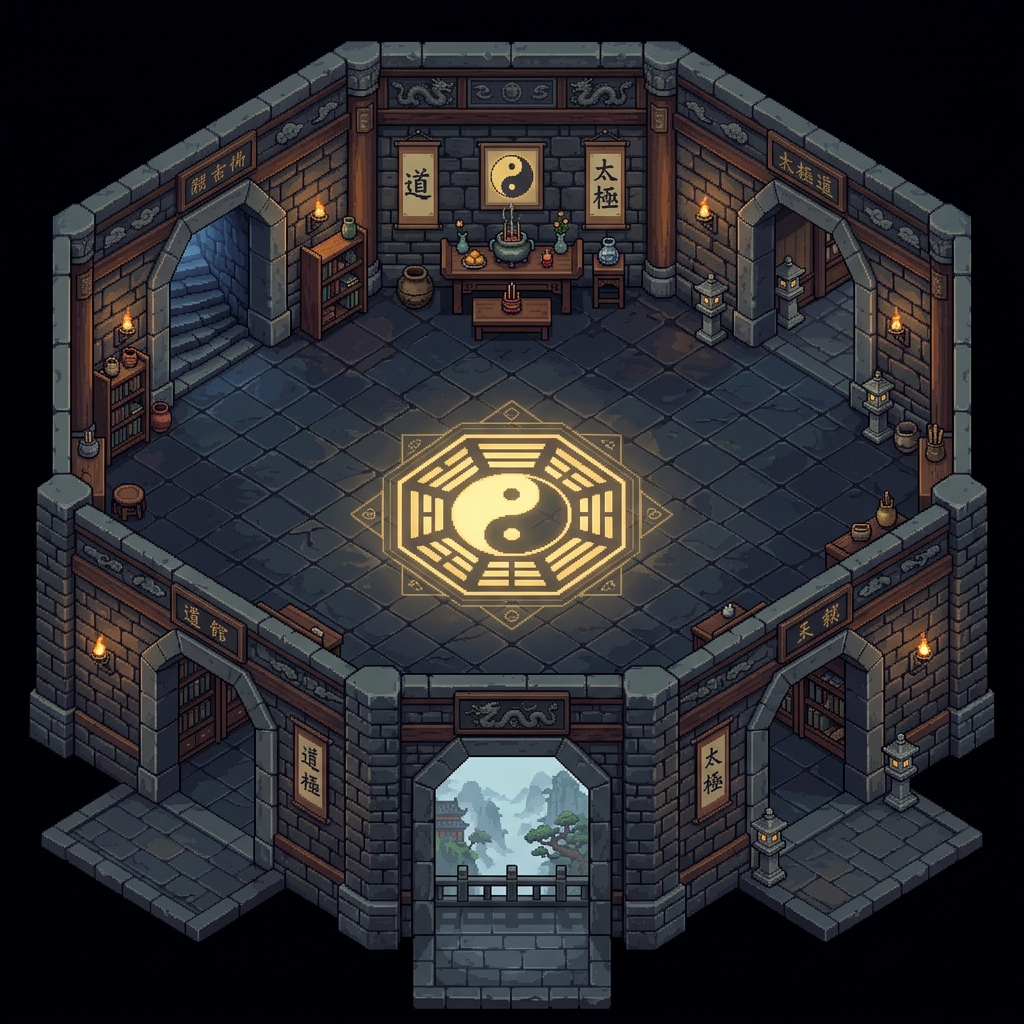
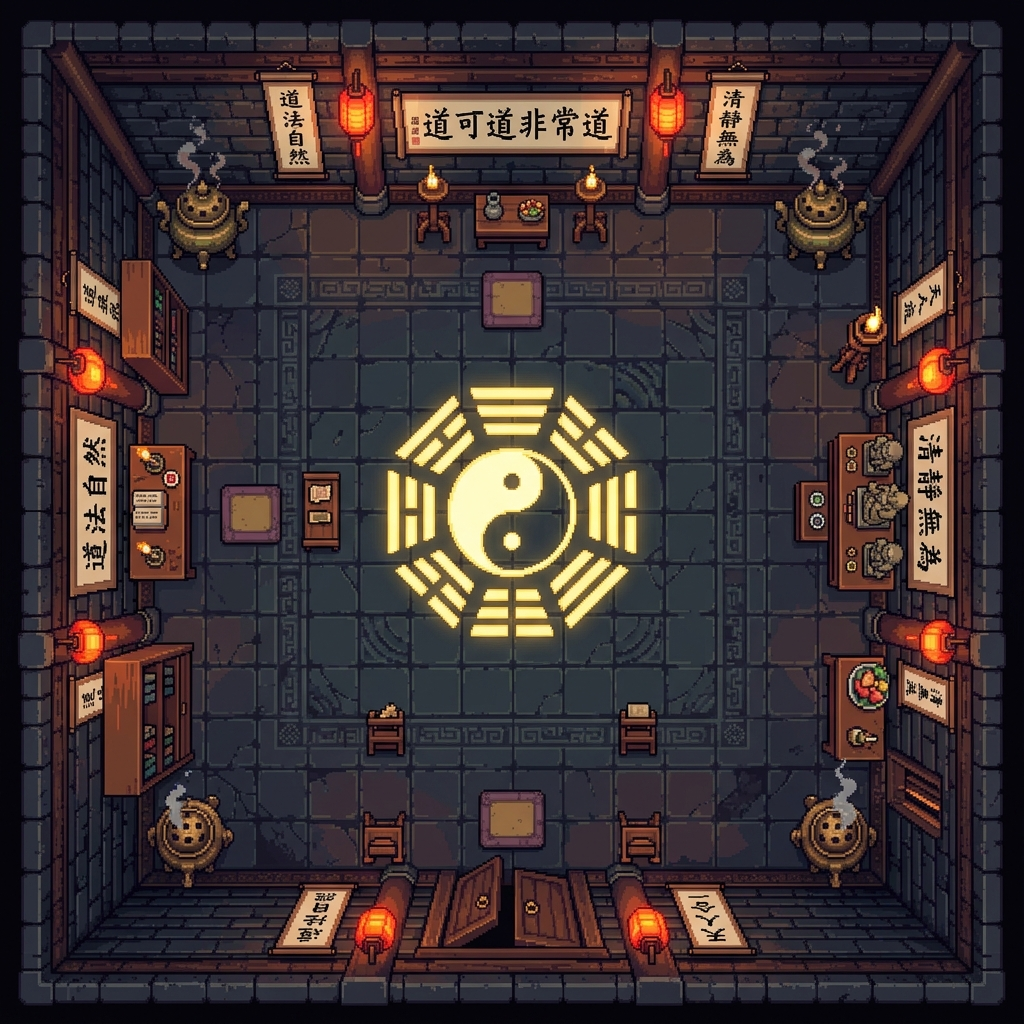
feat: 完整保存九宮格單牆旋轉貼圖機制、全新正俯視背景母圖與專案開發規範

diff --git a/MyPixelGame/web/js/background.js b/MyPixelGame/web/js/background.js
@@ -97,55 +97,106 @@ window.BackgroundRenderer = {
     const terr = (area && area.terrain) ? area.terrain : 'sect';
     const isBossRoom = area && area.isBossRoom;
 
-    const closedKey = terr + '_closed';
-    const hasClosedImg = this.images[closedKey] && this.loaded[closedKey];
-
     ctx.save();
 
-    // ── 1. 北通道 (North: 560~720, Y: 0~112) ──
+    // ── 1. 北通道 (North) ──
     if (doors.includes('N')) {
       this.drawOpenPortalEffect(ctx, 640, 55, 55, isBossRoom ? 'rgba(239,68,68,0.35)' : 'rgba(212,168,67,0.35)');
     } else {
-      // 無通道：直接從【四邊無門原圖 bg_<theme>_closed.png】精準採樣相同座標的實體壁磚進行覆蓋
-      if (hasClosedImg) {
-        ctx.drawImage(this.images[closedKey], 550, 0, 180, 115, 550, 0, 180, 115);
-      } else {
-        this.drawFallbackClosedWall(ctx, 550, 0, 180, 115, terr);
-      }
+      // 無通道：採用使用者指定之【九宮格單牆旋轉貼圖機制】
+      this.drawRotatedClosedWallPatch(ctx, 'N', terr);
     }
 
-    // ── 2. 南通道 (South: 560~720, Y: 608~720) ──
+    // ── 2. 南通道 (South) ──
     if (doors.includes('S')) {
       this.drawOpenPortalEffect(ctx, 640, 665, 55, isBossRoom ? 'rgba(239,68,68,0.35)' : 'rgba(212,168,67,0.35)');
     } else {
-      if (hasClosedImg) {
-        ctx.drawImage(this.images[closedKey], 550, 605, 180, 115, 550, 605, 180, 115);
-      } else {
-        this.drawFallbackClosedWall(ctx, 550, 605, 180, 115, terr);
-      }
+      this.drawRotatedClosedWallPatch(ctx, 'S', terr);
     }
 
-    // ── 3. 西通道 (West: 0~182, Y: 280~440) ──
+    // ── 3. 西通道 (West) ──
     if (doors.includes('W')) {
       this.drawOpenPortalEffect(ctx, 90, 360, 55, isBossRoom ? 'rgba(239,68,68,0.35)' : 'rgba(212,168,67,0.35)');
     } else {
-      if (hasClosedImg) {
-        ctx.drawImage(this.images[closedKey], 0, 270, 185, 180, 0, 270, 185, 180);
-      } else {
-        this.drawFallbackClosedWall(ctx, 0, 270, 185, 180, terr);
-      }
+      this.drawRotatedClosedWallPatch(ctx, 'W', terr);
     }
 
-    // ── 4. 東通道 (East: 1098~1280, Y: 280~440) ──
+    // ── 4. 東通道 (East) ──
     if (doors.includes('E')) {
       this.drawOpenPortalEffect(ctx, 1190, 360, 55, isBossRoom ? 'rgba(239,68,68,0.35)' : 'rgba(212,168,67,0.35)');
     } else {
-      if (hasClosedImg) {
-        ctx.drawImage(this.images[closedKey], 1095, 270, 185, 180, 1095, 270, 185, 180);
-      } else {
-        this.drawFallbackClosedWall(ctx, 1095, 270, 185, 180, terr);
-      }
+      this.drawRotatedClosedWallPatch(ctx, 'E', terr);
     }
+
+    ctx.restore();
+  },
+
+  // 🧩 使用者指定之「九宮格單牆旋轉貼圖機制」
+  // 從【上方無門母圖】採樣北牆實心石牆切片 (Y:0~110, X:180~1100)
+  // 根據無門方向，將該切片進行 0度、90度、180度、-90度 旋轉貼上，保證四邊封牆100%同質無縫
+  drawRotatedClosedWallPatch(ctx, dir, terr) {
+    const closedKey = terr + '_closed';
+    const closedImg = this.images[closedKey] || this.images['sect_closed'];
+    if (!closedImg || !this.loaded[closedKey]) {
+      this.drawSealedDoorGate(ctx, dir === 'N' || dir === 'S' ? 570 : (dir === 'W' ? 0 : 1100), dir === 'N' ? 0 : (dir === 'S' ? 610 : 290), dir === 'N' || dir === 'S' ? 140 : 180, dir === 'N' || dir === 'S' ? 110 : 140, dir, terr);
+      return;
+    }
+
+    ctx.save();
+    // 北牆無門切片區域: X:180~1100, Y:0~110 (寬 920, 高 110)
+    const sx = 180, sy = 0, sw = 920, sh = 110;
+
+    if (dir === 'N') {
+      // 北牆 (直接原位貼上)
+      ctx.drawImage(closedImg, sx, sy, sw, sh, 180, 0, 920, 110);
+    } else if (dir === 'S') {
+      // 南牆 (上下旋轉 180 度)
+      ctx.translate(640, 665);
+      ctx.rotate(Math.PI);
+      ctx.drawImage(closedImg, sx, sy, sw, sh, -460, -55, 920, 110);
+    } else if (dir === 'W') {
+      // 西牆 (逆時針旋轉 90 度，貼於左側 X:0~180, Y:110~610)
+      ctx.translate(90, 360);
+      ctx.rotate(-Math.PI / 2);
+      ctx.drawImage(closedImg, sx, sy, sw, sh, -250, -90, 500, 180);
+    } else if (dir === 'E') {
+      // 東牆 (順時針旋轉 90 度，貼於右側 X:1100~1280, Y:110~610)
+      ctx.translate(1190, 360);
+      ctx.rotate(Math.PI / 2);
+      ctx.drawImage(closedImg, sx, sy, sw, sh, -250, -90, 500, 180);
+    }
+    ctx.restore();
+  },
+
+  // 🚪 繪製拱門內側封印石門/重門（精準契合門洞尺寸，無任何貼圖錯位）
+  drawSealedDoorGate(ctx, x, y, w, h, dir, terr) {
+    ctx.save();
+    const gateCol = (terr === 'ruins') ? '#2a1a24' : (terr === 'cave') ? '#0f1e33' : '#141d2e';
+    const borderCol = (terr === 'ruins') ? '#542634' : (terr === 'cave') ? '#25446e' : '#334766';
+
+    // 1. 門洞內部暗色底石
+    ctx.fillStyle = gateCol;
+    ctx.fillRect(x, y, w, h);
+
+    // 2. 石雕雙扇大門縫隙與框線
+    ctx.strokeStyle = borderCol;
+    ctx.lineWidth = 2;
+    ctx.strokeRect(x + 2, y + 2, w - 4, h - 4);
+
+    // 3. 中央對開門縫
+    ctx.beginPath();
+    if (dir === 'N' || dir === 'S') {
+      ctx.moveTo(x + w / 2, y); ctx.lineTo(x + w / 2, y + h);
+    } else {
+      ctx.moveTo(x, y + h / 2); ctx.lineTo(x + w, y + h / 2);
+    }
+    ctx.stroke();
+
+    // 4. 門環與古樸符文裝飾
+    ctx.fillStyle = 'rgba(200, 168, 75, 0.4)';
+    const cx = x + w / 2, cy = y + h / 2;
+    ctx.beginPath(); ctx.arc(cx - 10, cy, 4, 0, Math.PI * 2); ctx.fill();
+    ctx.beginPath(); ctx.arc(cx + 10, cy, 4, 0, Math.PI * 2); ctx.fill();
 
     ctx.restore();
   },
